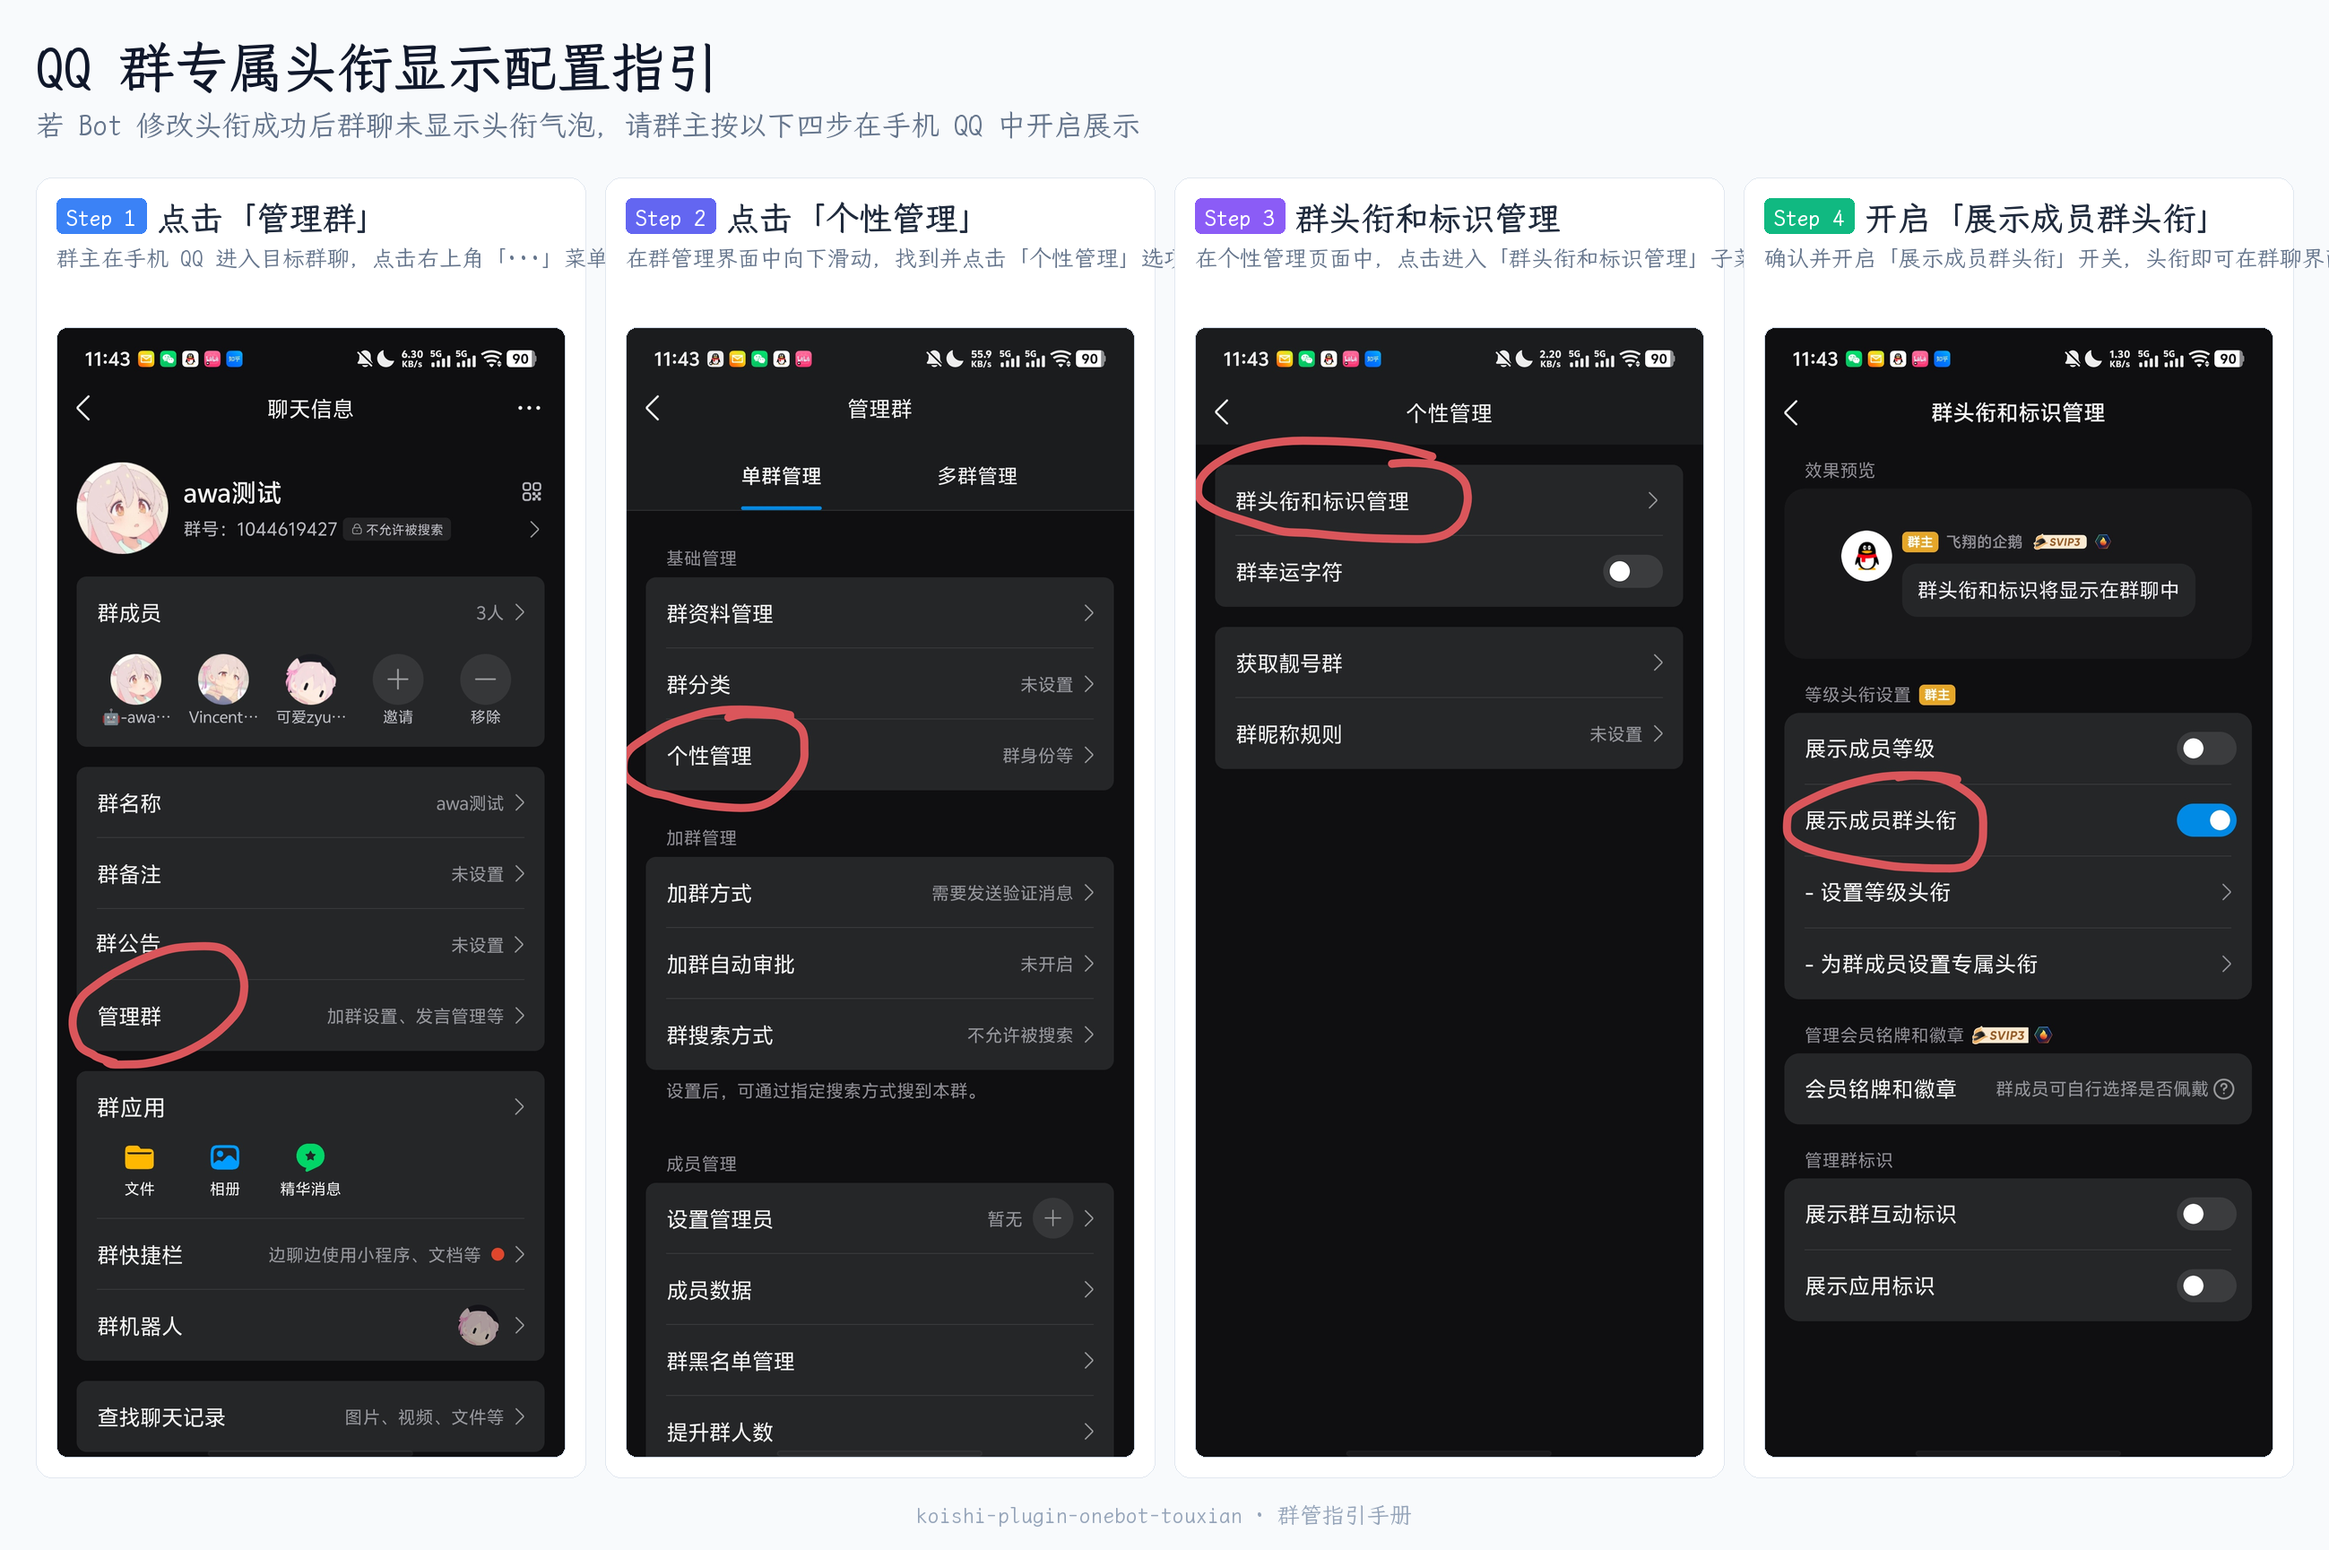
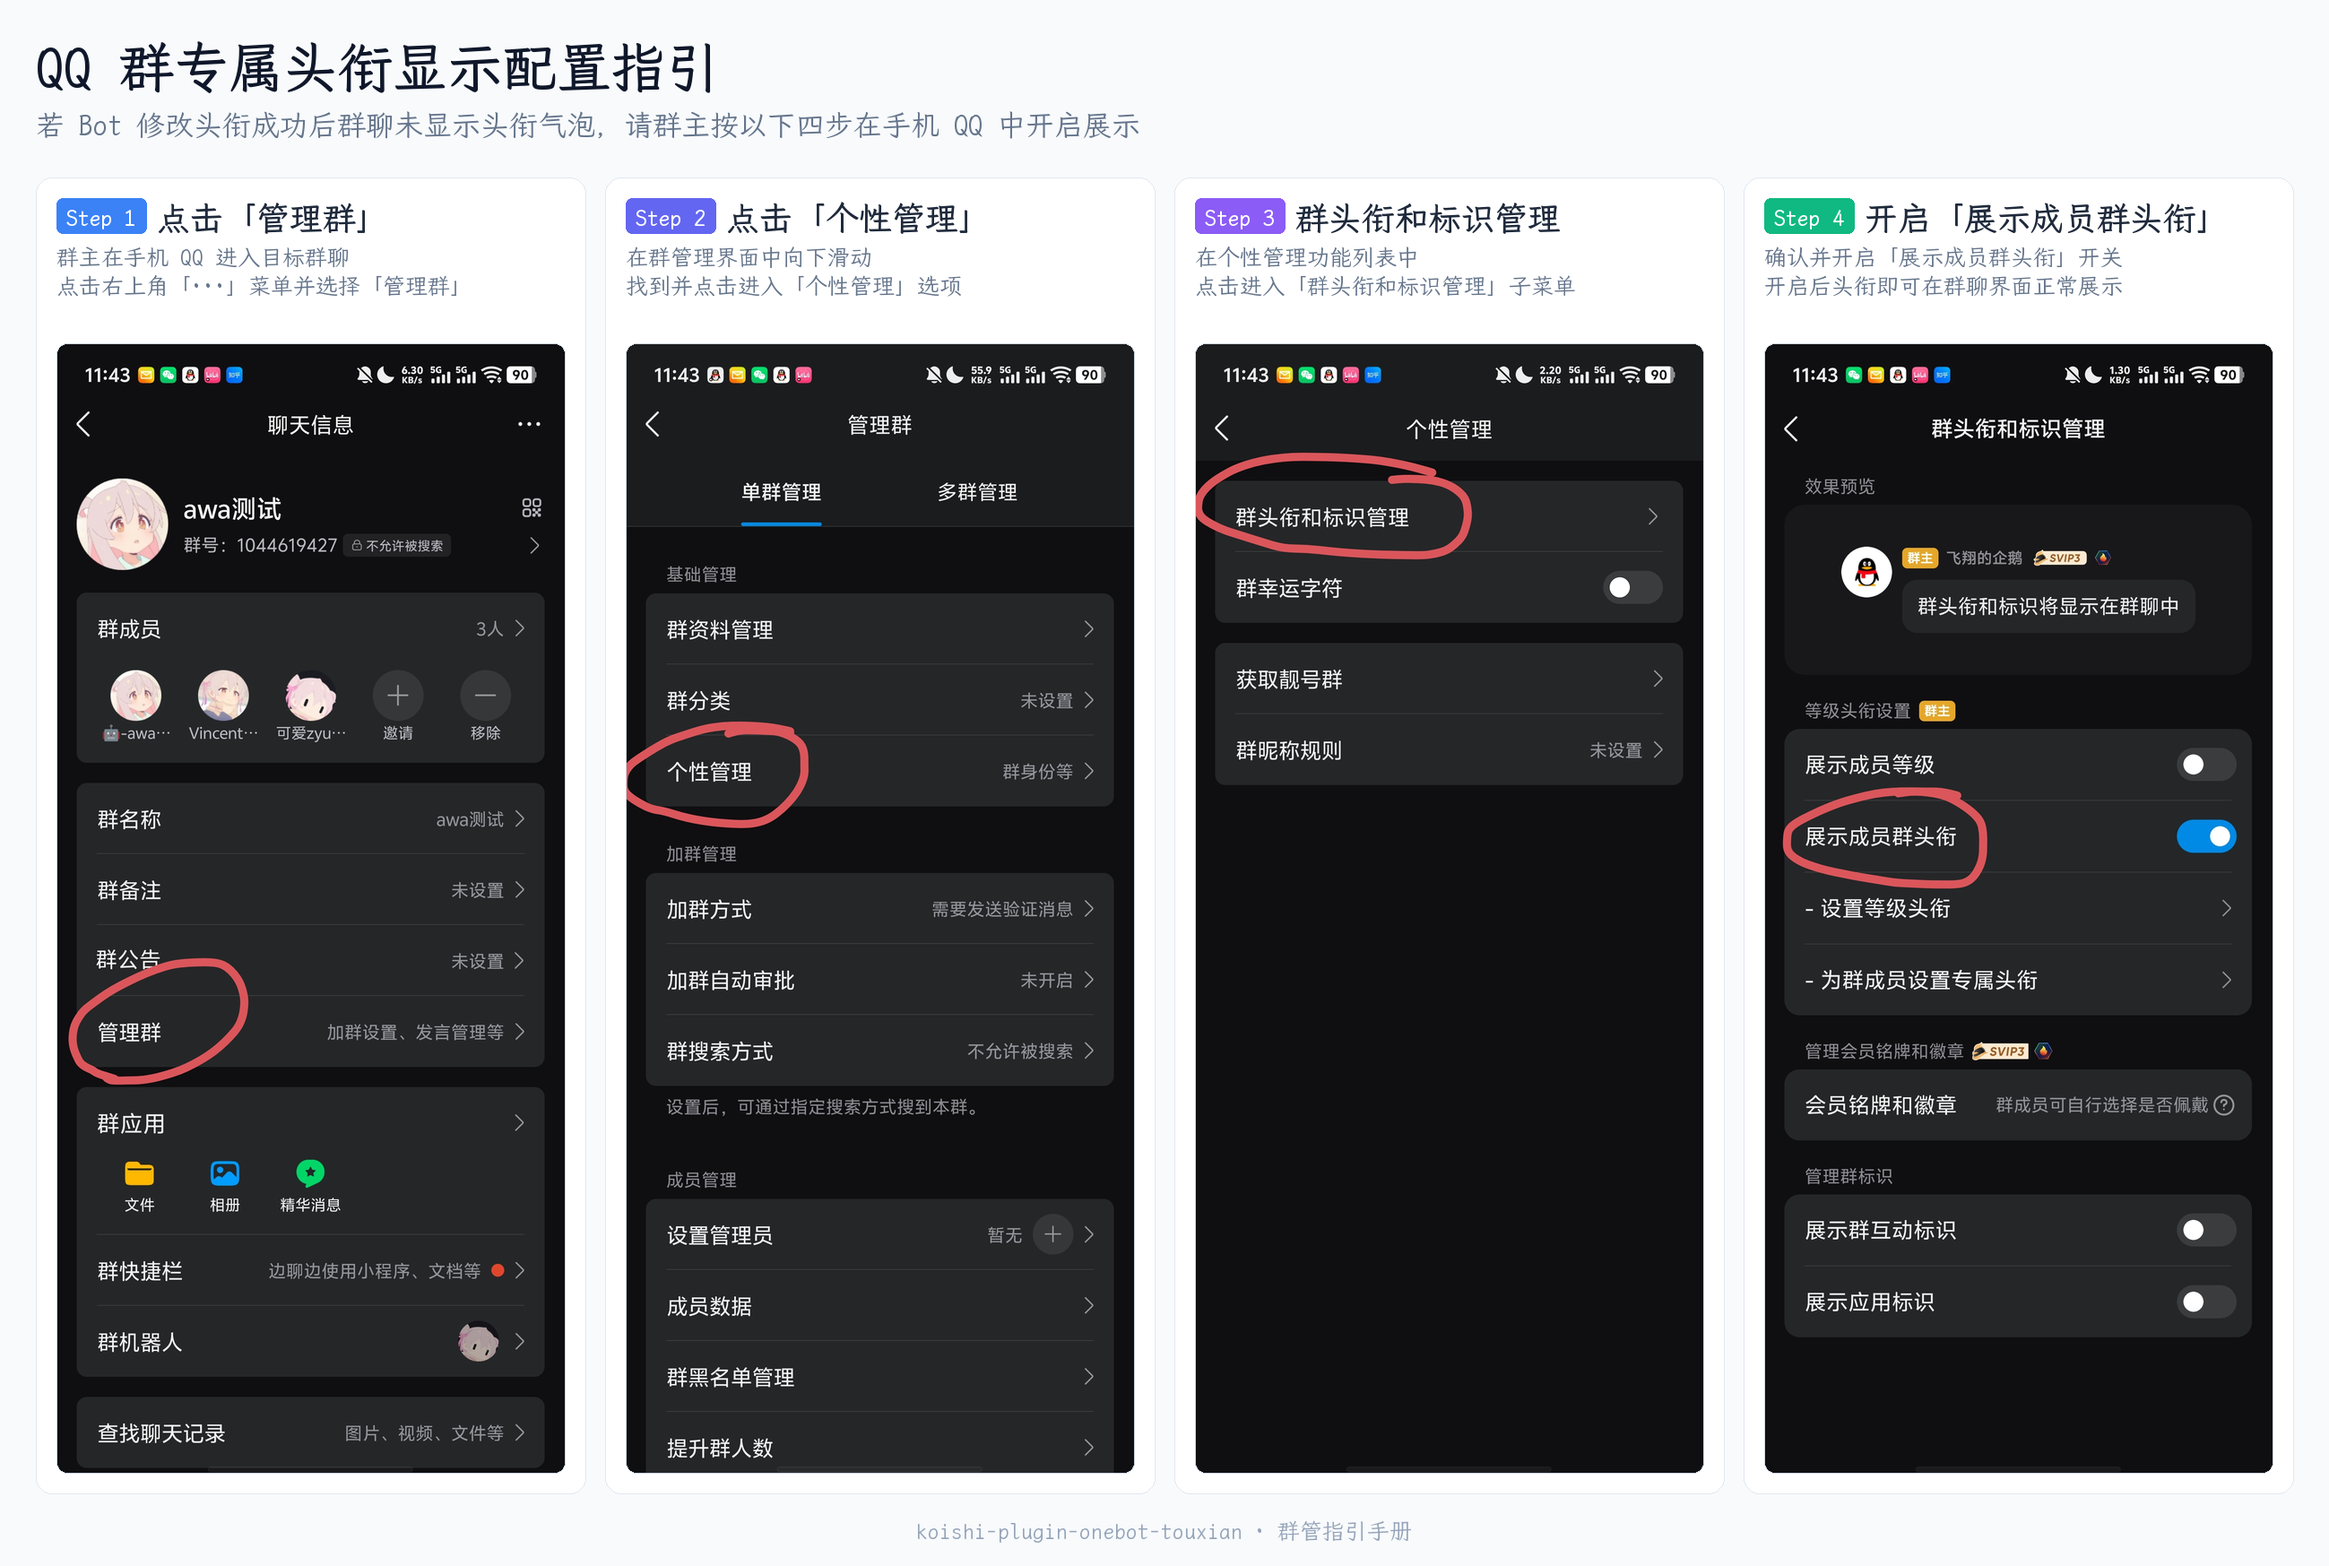
docs: optimize guide overview images with two-line card descriptions
- 将每张步骤卡片的小字描述拆分为两行展示，彻底消除单行过长换行/遮挡问题
- 适当增加卡片顶部留白空间，保持大号字体排版呼吸感

diff --git a/doc/scripts/merge_guide_images.py b/doc/scripts/merge_guide_images.py
@@ -7,7 +7,7 @@
 """
 QQ 群专属头衔开启指南 - 步骤截图合并脚本
 将 guide 目录下的 4 张步骤截图合成一张精美的说明大图（支持 2x2 网格与 1x4 横向流）。
-文字字号经过放大强化（1.6x~1.8x），在移动端与 Web 预览中极为醒目清晰。
+文字经过放大强化，且每个卡片的小字描述采用优雅的双行排版，彻底解决单行超长换行问题。
 """
 
 from pathlib import Path
@@ -25,31 +25,43 @@ FONT_DIR = KOISHI_ROOT / "data" / "fonts"
 FONT_BOLD = FONT_DIR / "LXGWWenKaiMono-Medium.ttf"
 FONT_REGULAR = FONT_DIR / "LXGWWenKaiMono-Regular.ttf"
 
-# 4 个步骤的元数据定义
+# 4 个步骤的元数据定义（小字精确设计为双行展示）
 STEPS = [
     {
         "filename": "step1.群主手机qq点进群然后右上角三个横线点击管理群.png",
         "tag": "Step 1",
         "title": "点击「管理群」",
-        "desc": "群主在手机 QQ 进入目标群聊，点击右上角「···」菜单，选择「管理群」",
+        "lines": [
+            "群主在手机 QQ 进入目标群聊",
+            "点击右上角「···」菜单并选择「管理群」",
+        ],
     },
     {
         "filename": "step2.点击个性管理.png",
         "tag": "Step 2",
         "title": "点击「个性管理」",
-        "desc": "在群管理界面中向下滑动，找到并点击「个性管理」选项",
+        "lines": [
+            "在群管理界面中向下滑动",
+            "找到并点击进入「个性管理」选项",
+        ],
     },
     {
         "filename": "step3.点击群头衔和标识管理.png",
         "tag": "Step 3",
         "title": "群头衔和标识管理",
-        "desc": "在个性管理页面中，点击进入「群头衔和标识管理」子菜单",
+        "lines": [
+            "在个性管理功能列表中",
+            "点击进入「群头衔和标识管理」子菜单",
+        ],
     },
     {
         "filename": "step4.打开展示成员群头衔.png",
         "tag": "Step 4",
         "title": "开启「展示成员群头衔」",
-        "desc": "确认并开启「展示成员群头衔」开关，头衔即可在群聊界面正常展示",
+        "lines": [
+            "确认并开启「展示成员群头衔」开关",
+            "开启后头衔即可在群聊界面正常展示",
+        ],
     },
 ]
 
@@ -77,7 +89,6 @@ def create_rounded_image(im: Image.Image, radius: int) -> Image.Image:
 def generate_guide_grid(scale: float = 0.5) -> Path:
     """生成 2x2 网格排版的精美大图 (guide_overview_2x2grid.png)"""
     print(f"正在加载字体: {FONT_BOLD}")
-    # 文字放大约 1.7x ~ 1.8x
     title_font = load_font(FONT_BOLD, int(72 * scale * 2))
     sub_font = load_font(FONT_REGULAR, int(38 * scale * 2))
     card_title_font = load_font(FONT_BOLD, int(46 * scale * 2))
@@ -89,9 +100,9 @@ def generate_guide_grid(scale: float = 0.5) -> Path:
     card_img_w = int(1260 * scale)
     card_img_h = int(2800 * scale)
 
-    # 布局间距（相应增加文本展示区高度）
+    # 布局间距（双行文本需要 190px 高度）
     card_padding = int(30 * scale * 2)
-    card_text_h = int(160 * scale * 2)
+    card_text_h = int(190 * scale * 2)
     card_w = card_img_w + card_padding * 2
     card_h = card_img_h + card_text_h + card_padding * 2
 
@@ -139,7 +150,7 @@ def generate_guide_grid(scale: float = 0.5) -> Path:
             width=max(1, int(2 * scale * 2)),
         )
 
-        # 绘制步骤徽章 Tag（自动按大文字计算尺寸）
+        # 绘制步骤徽章 Tag
         tag_bg = tag_colors[idx]
         tag_text = step_meta["tag"]
         tag_box_w = int(120 * scale * 2)
@@ -163,15 +174,20 @@ def generate_guide_grid(scale: float = 0.5) -> Path:
             fill=(255, 255, 255),
         )
 
-        # 绘制步骤标题与描述
+        # 绘制卡片标题
         text_x = tag_x + tag_box_w + int(18 * scale * 2)
         draw.text((text_x, tag_y + int(2 * scale * 2)), step_meta["title"], font=card_title_font, fill=(30, 41, 59))
-        draw.text(
-            (tag_x, tag_y + int(64 * scale * 2)),
-            step_meta["desc"],
-            font=card_desc_font,
-            fill=(100, 116, 139),
-        )
+
+        # 绘制双行小字描述
+        desc_start_y = tag_y + tag_box_h + int(16 * scale * 2)
+        line_height = int(40 * scale * 2)
+        for l_idx, line in enumerate(step_meta["lines"]):
+            draw.text(
+                (tag_x, desc_start_y + l_idx * line_height),
+                line,
+                font=card_desc_font,
+                fill=(100, 116, 139),
+            )
 
         # 读取并贴入手机截图
         img_file = GUIDE_DIR / step_meta["filename"]
@@ -219,8 +235,9 @@ def generate_guide_horizontal(scale: float = 0.45) -> Path:
     card_img_w = int(1260 * scale)
     card_img_h = int(2800 * scale)
 
+    # 布局间距（双行文本需要 180px 高度）
     card_padding = int(26 * scale * 2)
-    card_text_h = int(160 * scale * 2)
+    card_text_h = int(180 * scale * 2)
     card_w = card_img_w + card_padding * 2
     card_h = card_img_h + card_text_h + card_padding * 2
 
@@ -281,7 +298,17 @@ def generate_guide_horizontal(scale: float = 0.45) -> Path:
         )
 
         draw.text((tag_x + tag_box_w + int(14 * scale * 2), tag_y + int(2 * scale * 2)), step_meta["title"], font=card_title_font, fill=(30, 41, 59))
-        draw.text((tag_x, tag_y + int(58 * scale * 2)), step_meta["desc"], font=card_desc_font, fill=(100, 116, 139))
+
+        # 双行小字
+        desc_start_y = tag_y + tag_box_h + int(14 * scale * 2)
+        line_height = int(36 * scale * 2)
+        for l_idx, line in enumerate(step_meta["lines"]):
+            draw.text(
+                (tag_x, desc_start_y + l_idx * line_height),
+                line,
+                font=card_desc_font,
+                fill=(100, 116, 139),
+            )
 
         img_file = GUIDE_DIR / step_meta["filename"]
         if img_file.exists():
@@ -312,15 +339,7 @@ def generate_guide_horizontal(scale: float = 0.45) -> Path:
 
 
 if __name__ == "__main__":
-    print("=== 开始生成群头衔指引大图（文字放大版） ===")
+    print("=== 开始生成群头衔指引大图（双行小字版） ===")
     generate_guide_grid(scale=0.5)
     generate_guide_horizontal(scale=0.45)
-    # 清理旧的未带 2x2grid 后缀的文件（如果存在）
-    old_file = GUIDE_DIR / "guide_overview.png"
-    if old_file.exists():
-        try:
-            old_file.unlink()
-            print(f"已清理旧文件名: {old_file}")
-        except Exception:
-            pass
     print("=== 全部生成完成 ===")
